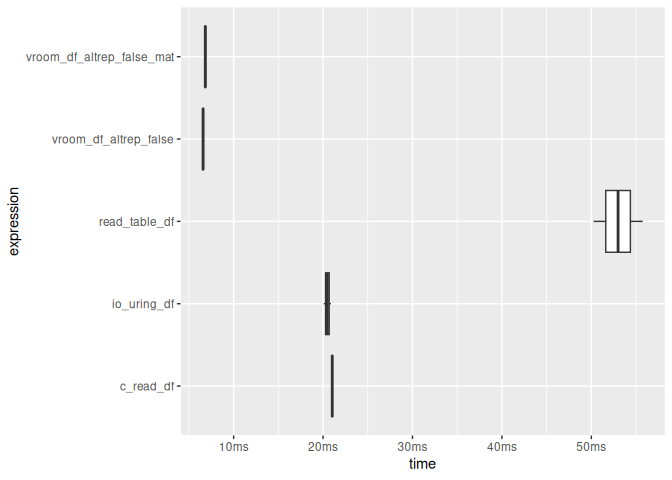
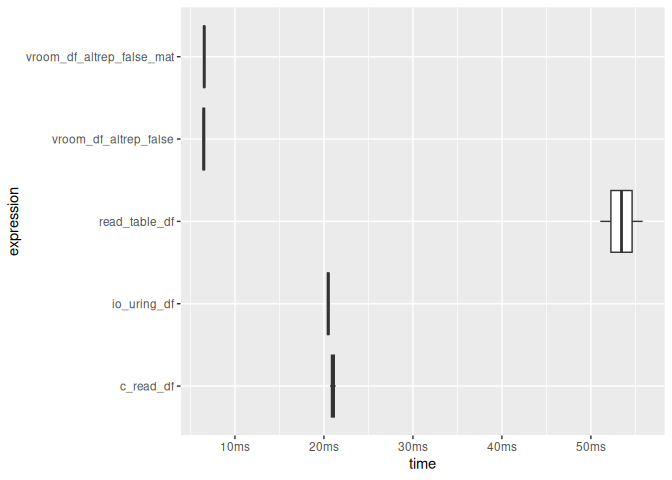
Deploying to gh-pages from @ sounkou-bioinfo/Rtinycc@7c0fed4f866862ffa2b5eaefe57964bf71e3ed3d 🚀

diff --git a/index.html b/index.html
@@ -169,7 +169,7 @@
 <span><span class="fu"><a href="reference/tcc_read_bytes.html">tcc_read_bytes</a></span><span class="op">(</span><span class="va">ptr</span>, <span class="fl">5</span><span class="op">)</span></span>
 <span><span class="co">#&gt; [1] 68 65 6c 6c 6f</span></span>
 <span><span class="fu"><a href="reference/tcc_ptr_addr.html">tcc_ptr_addr</a></span><span class="op">(</span><span class="va">ptr</span>, hex <span class="op">=</span> <span class="cn">TRUE</span><span class="op">)</span></span>
-<span><span class="co">#&gt; [1] "0x60dfb746cb40"</span></span>
+<span><span class="co">#&gt; [1] "0x5b307d43dc30"</span></span>
 <span><span class="fu"><a href="reference/tcc_ptr_is_null.html">tcc_ptr_is_null</a></span><span class="op">(</span><span class="va">ptr</span><span class="op">)</span></span>
 <span><span class="co">#&gt; [1] FALSE</span></span>
 <span><span class="fu"><a href="reference/tcc_free.html">tcc_free</a></span><span class="op">(</span><span class="va">ptr</span><span class="op">)</span></span>
@@ -190,11 +190,11 @@
 <code class="sourceCode R"><span><span class="va">ptr_ref</span> <span class="op">&lt;-</span> <span class="fu"><a href="reference/tcc_malloc.html">tcc_malloc</a></span><span class="op">(</span><span class="va">.Machine</span><span class="op">$</span><span class="va">sizeof.pointer</span> <span class="op"><a href="https://rdrr.io/r/base/Control.html" class="external-link">%||%</a></span> <span class="fl">8L</span><span class="op">)</span></span>
 <span><span class="va">target</span> <span class="op">&lt;-</span> <span class="fu"><a href="reference/tcc_malloc.html">tcc_malloc</a></span><span class="op">(</span><span class="fl">8</span><span class="op">)</span></span>
 <span><span class="fu"><a href="reference/tcc_ptr_set.html">tcc_ptr_set</a></span><span class="op">(</span><span class="va">ptr_ref</span>, <span class="va">target</span><span class="op">)</span></span>
-<span><span class="co">#&gt; &lt;pointer: 0x60dfb9445f10&gt;</span></span>
+<span><span class="co">#&gt; &lt;pointer: 0x5b307d335050&gt;</span></span>
 <span><span class="fu"><a href="reference/tcc_data_ptr.html">tcc_data_ptr</a></span><span class="op">(</span><span class="va">ptr_ref</span><span class="op">)</span></span>
-<span><span class="co">#&gt; &lt;pointer: 0x60dfb6bd4080&gt;</span></span>
+<span><span class="co">#&gt; &lt;pointer: 0x5b307cc3ef00&gt;</span></span>
 <span><span class="fu"><a href="reference/tcc_ptr_set.html">tcc_ptr_set</a></span><span class="op">(</span><span class="va">ptr_ref</span>, <span class="fu"><a href="reference/tcc_null_ptr.html">tcc_null_ptr</a></span><span class="op">(</span><span class="op">)</span><span class="op">)</span></span>
-<span><span class="co">#&gt; &lt;pointer: 0x60dfb9445f10&gt;</span></span>
+<span><span class="co">#&gt; &lt;pointer: 0x5b307d335050&gt;</span></span>
 <span><span class="fu"><a href="reference/tcc_free.html">tcc_free</a></span><span class="op">(</span><span class="va">target</span><span class="op">)</span></span>
 <span><span class="co">#&gt; NULL</span></span>
 <span><span class="fu"><a href="reference/tcc_free.html">tcc_free</a></span><span class="op">(</span><span class="va">ptr_ref</span><span class="op">)</span></span>
@@ -388,7 +388,7 @@
 <span></span>
 <span><span class="va">x</span> <span class="op">&lt;-</span> <span class="fu"><a href="https://rdrr.io/r/base/integer.html" class="external-link">as.integer</a></span><span class="op">(</span><span class="fl">1</span><span class="op">:</span><span class="fl">100</span><span class="op">)</span> <span class="co"># to avoid ALTREP</span></span>
 <span><span class="fu"><a href="https://rdrr.io/r/base/Internal.html" class="external-link">.Internal</a></span><span class="op">(</span><span class="fu">inspect</span><span class="op">(</span><span class="va">x</span><span class="op">)</span><span class="op">)</span></span>
-<span><span class="co">#&gt; @60dfba6f9da8 13 INTSXP g0c0 [REF(65535)]  1 : 100 (compact)</span></span>
+<span><span class="co">#&gt; @5b307e5d8198 13 INTSXP g0c0 [REF(65535)]  1 : 100 (compact)</span></span>
 <span><span class="va">ffi</span><span class="op">$</span><span class="fu">sum_array</span><span class="op">(</span><span class="va">x</span>, <span class="fu"><a href="https://rdrr.io/r/base/length.html" class="external-link">length</a></span><span class="op">(</span><span class="va">x</span><span class="op">)</span><span class="op">)</span></span>
 <span><span class="co">#&gt; [1] 5050</span></span>
 <span></span>
@@ -404,7 +404,7 @@
 <span><span class="co">#&gt; [1] 11</span></span>
 <span></span>
 <span><span class="fu"><a href="https://rdrr.io/r/base/Internal.html" class="external-link">.Internal</a></span><span class="op">(</span><span class="fu">inspect</span><span class="op">(</span><span class="va">x</span><span class="op">)</span><span class="op">)</span></span>
-<span><span class="co">#&gt; @60dfba6f9da8 13 INTSXP g0c0 [REF(65535)]  11 : 110 (expanded)</span></span></code></pre></div>
+<span><span class="co">#&gt; @5b307e5d8198 13 INTSXP g0c0 [REF(65535)]  11 : 110 (expanded)</span></span></code></pre></div>
 </div>
 </div>
 <div class="section level2">
@@ -431,15 +431,15 @@
 <span></span>
 <span><span class="va">p1</span> <span class="op">&lt;-</span> <span class="va">ffi</span><span class="op">$</span><span class="fu">struct_point_new</span><span class="op">(</span><span class="op">)</span></span>
 <span><span class="va">ffi</span><span class="op">$</span><span class="fu">struct_point_set_x</span><span class="op">(</span><span class="va">p1</span>, <span class="fl">0.0</span><span class="op">)</span></span>
-<span><span class="co">#&gt; &lt;pointer: 0x60dfb7700480&gt;</span></span>
+<span><span class="co">#&gt; &lt;pointer: 0x5b307dbbd010&gt;</span></span>
 <span><span class="va">ffi</span><span class="op">$</span><span class="fu">struct_point_set_y</span><span class="op">(</span><span class="va">p1</span>, <span class="fl">0.0</span><span class="op">)</span></span>
-<span><span class="co">#&gt; &lt;pointer: 0x60dfb7700480&gt;</span></span>
+<span><span class="co">#&gt; &lt;pointer: 0x5b307dbbd010&gt;</span></span>
 <span></span>
 <span><span class="va">p2</span> <span class="op">&lt;-</span> <span class="va">ffi</span><span class="op">$</span><span class="fu">struct_point_new</span><span class="op">(</span><span class="op">)</span></span>
 <span><span class="va">ffi</span><span class="op">$</span><span class="fu">struct_point_set_x</span><span class="op">(</span><span class="va">p2</span>, <span class="fl">3.0</span><span class="op">)</span></span>
-<span><span class="co">#&gt; &lt;pointer: 0x60dfb8c37de0&gt;</span></span>
+<span><span class="co">#&gt; &lt;pointer: 0x5b307ae7f0c0&gt;</span></span>
 <span><span class="va">ffi</span><span class="op">$</span><span class="fu">struct_point_set_y</span><span class="op">(</span><span class="va">p2</span>, <span class="fl">4.0</span><span class="op">)</span></span>
-<span><span class="co">#&gt; &lt;pointer: 0x60dfb8c37de0&gt;</span></span>
+<span><span class="co">#&gt; &lt;pointer: 0x5b307ae7f0c0&gt;</span></span>
 <span></span>
 <span><span class="va">ffi</span><span class="op">$</span><span class="fu">distance</span><span class="op">(</span><span class="va">p1</span>, <span class="va">p2</span><span class="op">)</span></span>
 <span><span class="co">#&gt; [1] 5</span></span>
@@ -481,9 +481,9 @@
 <span></span>
 <span><span class="va">s</span> <span class="op">&lt;-</span> <span class="va">ffi</span><span class="op">$</span><span class="fu">struct_flags_new</span><span class="op">(</span><span class="op">)</span></span>
 <span><span class="va">ffi</span><span class="op">$</span><span class="fu">struct_flags_set_active</span><span class="op">(</span><span class="va">s</span>, <span class="fl">1L</span><span class="op">)</span></span>
-<span><span class="co">#&gt; &lt;pointer: 0x60dfb97735a0&gt;</span></span>
+<span><span class="co">#&gt; &lt;pointer: 0x5b307b0c7f80&gt;</span></span>
 <span><span class="va">ffi</span><span class="op">$</span><span class="fu">struct_flags_set_level</span><span class="op">(</span><span class="va">s</span>, <span class="fl">9L</span><span class="op">)</span></span>
-<span><span class="co">#&gt; &lt;pointer: 0x60dfb97735a0&gt;</span></span>
+<span><span class="co">#&gt; &lt;pointer: 0x5b307b0c7f80&gt;</span></span>
 <span><span class="va">ffi</span><span class="op">$</span><span class="fu">struct_flags_get_active</span><span class="op">(</span><span class="va">s</span><span class="op">)</span></span>
 <span><span class="co">#&gt; [1] 1</span></span>
 <span><span class="va">ffi</span><span class="op">$</span><span class="fu">struct_flags_get_level</span><span class="op">(</span><span class="va">s</span><span class="op">)</span></span>
@@ -1560,7 +1560,7 @@ Click to show only the embedded C Protothreads / htslib source
 <span>  <span class="fu"><a href="reference/tcc_compile.html">tcc_compile</a></span><span class="op">(</span><span class="op">)</span></span>
 <span></span>
 <span><span class="va">ffi</span><span class="op">$</span><span class="fu">struct_point_new</span><span class="op">(</span><span class="op">)</span></span>
-<span><span class="co">#&gt; &lt;pointer: 0x60dfb6588420&gt;</span></span>
+<span><span class="co">#&gt; &lt;pointer: 0x5b3080f28470&gt;</span></span>
 <span><span class="va">ffi</span><span class="op">$</span><span class="fu">enum_status_OK</span><span class="op">(</span><span class="op">)</span></span>
 <span><span class="co">#&gt; [1] 0</span></span>
 <span><span class="va">ffi</span><span class="op">$</span><span class="fu">global_global_counter_get</span><span class="op">(</span><span class="op">)</span></span>
@@ -1675,11 +1675,11 @@ Click to show only the embedded C Protothreads / htslib source
 <span><span class="co">#&gt; # A tibble: 5 × 13</span></span>
 <span><span class="co">#&gt;   expression     min  median `itr/sec` mem_alloc `gc/sec` n_itr  n_gc total_time</span></span>
 <span><span class="co">#&gt;   &lt;bch:expr&gt; &lt;bch:t&gt; &lt;bch:t&gt;     &lt;dbl&gt; &lt;bch:byt&gt;    &lt;dbl&gt; &lt;int&gt; &lt;dbl&gt;   &lt;bch:tm&gt;</span></span>
-<span><span class="co">#&gt; 1 read_tabl… 50.24ms 50.24ms      19.9    6.33MB     19.9     1     1     50.2ms</span></span>
-<span><span class="co">#&gt; 2 vroom_df_…  6.53ms  6.58ms     152.     1.22MB      0       2     0     13.2ms</span></span>
-<span><span class="co">#&gt; 3 vroom_df_…  6.77ms  6.83ms     146.     2.44MB      0       2     0     13.7ms</span></span>
-<span><span class="co">#&gt; 4 c_read_df  21.02ms 21.03ms      47.6    1.22MB      0       2     0     42.1ms</span></span>
-<span><span class="co">#&gt; 5 io_uring_… 20.08ms 20.48ms      48.8    1.22MB      0       2     0       41ms</span></span>
+<span><span class="co">#&gt; 1 read_tabl… 51.06ms 51.06ms      19.6    6.33MB     19.6     1     1     51.1ms</span></span>
+<span><span class="co">#&gt; 2 vroom_df_…  6.36ms   6.5ms     154.     1.22MB      0       2     0       13ms</span></span>
+<span><span class="co">#&gt; 3 vroom_df_…  6.44ms  6.54ms     153.     2.44MB      0       2     0     13.1ms</span></span>
+<span><span class="co">#&gt; 4 c_read_df  20.69ms 21.01ms      47.6    1.22MB      0       2     0       42ms</span></span>
+<span><span class="co">#&gt; 5 io_uring_… 20.33ms 20.48ms      48.8    1.22MB      0       2     0       41ms</span></span>
 <span><span class="co">#&gt; # ℹ 4 more variables: result &lt;list&gt;, memory &lt;list&gt;, time &lt;list&gt;, gc &lt;list&gt;</span></span></code></pre></div>
 <p><img src="reference/figures/README-io_uring-demo-1.png" alt="" width="100%"></p>
 </div>
@@ -1761,9 +1761,9 @@ Click to show only the embedded C Protothreads / htslib source
 <span></span>
 <span><span class="va">b</span> <span class="op">&lt;-</span> <span class="va">ffi</span><span class="op">$</span><span class="fu">struct_buf_new</span><span class="op">(</span><span class="op">)</span></span>
 <span><span class="va">ffi</span><span class="op">$</span><span class="fu">struct_buf_set_data_elt</span><span class="op">(</span><span class="va">b</span>, <span class="fl">0L</span>, <span class="fl">0xCAL</span><span class="op">)</span></span>
-<span><span class="co">#&gt; &lt;pointer: 0x60dfc0f45350&gt;</span></span>
+<span><span class="co">#&gt; &lt;pointer: 0x5b307db81e00&gt;</span></span>
 <span><span class="va">ffi</span><span class="op">$</span><span class="fu">struct_buf_set_data_elt</span><span class="op">(</span><span class="va">b</span>, <span class="fl">1L</span>, <span class="fl">0xFEL</span><span class="op">)</span></span>
-<span><span class="co">#&gt; &lt;pointer: 0x60dfc0f45350&gt;</span></span>
+<span><span class="co">#&gt; &lt;pointer: 0x5b307db81e00&gt;</span></span>
 <span><span class="va">ffi</span><span class="op">$</span><span class="fu">struct_buf_get_data_elt</span><span class="op">(</span><span class="va">b</span>, <span class="fl">0L</span><span class="op">)</span></span>
 <span><span class="co">#&gt; [1] 202</span></span>
 <span><span class="va">ffi</span><span class="op">$</span><span class="fu">struct_buf_get_data_elt</span><span class="op">(</span><span class="va">b</span>, <span class="fl">1L</span><span class="op">)</span></span>

diff --git a/articles/compilation-and-call-overhead.html b/articles/compilation-and-call-overhead.html
@@ -450,8 +450,8 @@ below are skipped.</p>
 <span><span class="va">compile_times</span><span class="op">$</span><span class="va">milliseconds</span> <span class="op">&lt;-</span> <span class="fu"><a href="https://rdrr.io/r/base/Round.html" class="external-link">round</a></span><span class="op">(</span><span class="va">compile_times</span><span class="op">$</span><span class="va">seconds</span> <span class="op">*</span> <span class="fl">1000</span>, <span class="fl">1</span><span class="op">)</span></span>
 <span><span class="va">compile_times</span></span>
 <span><span class="co">#&gt;   implementation seconds milliseconds</span></span>
-<span><span class="co">#&gt; 1        Rtinycc   0.022           22</span></span>
-<span><span class="co">#&gt; 2         callme   0.275          275</span></span></code></pre></div>
+<span><span class="co">#&gt; 1        Rtinycc   0.016           16</span></span>
+<span><span class="co">#&gt; 2         callme   0.202          202</span></span></code></pre></div>
 <p>The expected pattern is:</p>
 <ul>
 <li>
@@ -602,8 +602,8 @@ point.</p>
 <span><span class="co">#&gt; <span style="color: #949494;"># A tibble: 2 × 6</span></span></span>
 <span><span class="co">#&gt;   expression      min   median `itr/sec` mem_alloc `gc/sec`</span></span>
 <span><span class="co">#&gt;   <span style="color: #949494; font-style: italic;">&lt;bch:expr&gt;</span> <span style="color: #949494; font-style: italic;">&lt;bch:tm&gt;</span> <span style="color: #949494; font-style: italic;">&lt;bch:tm&gt;</span>     <span style="color: #949494; font-style: italic;">&lt;dbl&gt;</span> <span style="color: #949494; font-style: italic;">&lt;bch:byt&gt;</span>    <span style="color: #949494; font-style: italic;">&lt;dbl&gt;</span></span></span>
-<span><span class="co">#&gt; <span style="color: #BCBCBC;">1</span> Rtinycc       1.1ms   1.14ms      880.    21.9KB        0</span></span>
-<span><span class="co">#&gt; <span style="color: #BCBCBC;">2</span> callme        396µs 411.27µs     <span style="text-decoration: underline;">2</span>408.        0B        0</span></span></code></pre></div>
+<span><span class="co">#&gt; <span style="color: #BCBCBC;">1</span> Rtinycc       858µs    882µs     <span style="text-decoration: underline;">1</span>134.    21.9KB        0</span></span>
+<span><span class="co">#&gt; <span style="color: #BCBCBC;">2</span> callme        320µs    328µs     <span style="text-decoration: underline;">3</span>032.        0B        0</span></span></code></pre></div>
 <p>Interpretation:</p>
 <ul>
 <li>the <code>callme</code> path is close to the cost of a conventional
@@ -645,8 +645,8 @@ result.</p>
 <span><span class="co">#&gt; <span style="color: #949494;"># A tibble: 2 × 6</span></span></span>
 <span><span class="co">#&gt;   expression      min   median `itr/sec` mem_alloc `gc/sec`</span></span>
 <span><span class="co">#&gt;   <span style="color: #949494; font-style: italic;">&lt;bch:expr&gt;</span> <span style="color: #949494; font-style: italic;">&lt;bch:tm&gt;</span> <span style="color: #949494; font-style: italic;">&lt;bch:tm&gt;</span>     <span style="color: #949494; font-style: italic;">&lt;dbl&gt;</span> <span style="color: #949494; font-style: italic;">&lt;bch:byt&gt;</span>    <span style="color: #949494; font-style: italic;">&lt;dbl&gt;</span></span></span>
-<span><span class="co">#&gt; <span style="color: #BCBCBC;">1</span> Rtinycc      2.71ms   4.34ms      245.    3.15MB     12.2</span></span>
-<span><span class="co">#&gt; <span style="color: #BCBCBC;">2</span> callme          2ms   2.03ms      441.    3.13MB     22.0</span></span></code></pre></div>
+<span><span class="co">#&gt; <span style="color: #BCBCBC;">1</span> Rtinycc      2.12ms   3.36ms      318.    3.15MB     15.9</span></span>
+<span><span class="co">#&gt; <span style="color: #BCBCBC;">2</span> callme       1.55ms   1.58ms      570.    3.13MB     28.5</span></span></code></pre></div>
 <p>Interpretation:</p>
 <ul>
 <li>both sides now write into ordinary R numeric storage</li>
@@ -696,14 +696,14 @@ into a fresh R vector</li>
 <span><span class="co">#&gt; <span style="color: #949494;"># A tibble: 2 × 6</span></span></span>
 <span><span class="co">#&gt;   expression      min   median `itr/sec` mem_alloc `gc/sec`</span></span>
 <span><span class="co">#&gt;   <span style="color: #949494; font-style: italic;">&lt;bch:expr&gt;</span> <span style="color: #949494; font-style: italic;">&lt;bch:tm&gt;</span> <span style="color: #949494; font-style: italic;">&lt;bch:tm&gt;</span>     <span style="color: #949494; font-style: italic;">&lt;dbl&gt;</span> <span style="color: #949494; font-style: italic;">&lt;bch:byt&gt;</span>    <span style="color: #949494; font-style: italic;">&lt;dbl&gt;</span></span></span>
-<span><span class="co">#&gt; <span style="color: #BCBCBC;">1</span> Rtinycc      1.74ms   1.82ms      508.    15.4KB     25.4</span></span>
-<span><span class="co">#&gt; <span style="color: #BCBCBC;">2</span> callme     943.63µs 973.47µs     <span style="text-decoration: underline;">1</span>025.        0B      0</span></span>
+<span><span class="co">#&gt; <span style="color: #BCBCBC;">1</span> Rtinycc      1.32ms    1.4ms      668.    15.4KB     33.4</span></span>
+<span><span class="co">#&gt; <span style="color: #BCBCBC;">2</span> callme     755.08µs  774.9µs     <span style="text-decoration: underline;">1</span>285.        0B      0</span></span>
 <span><span class="va">rand_results</span><span class="op">$</span><span class="va">rand_bench_n4096</span></span>
 <span><span class="co">#&gt; <span style="color: #949494;"># A tibble: 2 × 6</span></span></span>
 <span><span class="co">#&gt;   expression      min   median `itr/sec` mem_alloc `gc/sec`</span></span>
 <span><span class="co">#&gt;   <span style="color: #949494; font-style: italic;">&lt;bch:expr&gt;</span> <span style="color: #949494; font-style: italic;">&lt;bch:tm&gt;</span> <span style="color: #949494; font-style: italic;">&lt;bch:tm&gt;</span>     <span style="color: #949494; font-style: italic;">&lt;dbl&gt;</span> <span style="color: #949494; font-style: italic;">&lt;bch:byt&gt;</span>    <span style="color: #949494; font-style: italic;">&lt;dbl&gt;</span></span></span>
-<span><span class="co">#&gt; <span style="color: #BCBCBC;">1</span> Rtinycc      2.62ms   4.14ms      239.    3.13MB     11.9</span></span>
-<span><span class="co">#&gt; <span style="color: #BCBCBC;">2</span> callme       1.86ms   3.35ms      293.    3.13MB     14.6</span></span></code></pre></div>
+<span><span class="co">#&gt; <span style="color: #BCBCBC;">1</span> Rtinycc      2.04ms   3.35ms      298.    3.13MB     14.9</span></span>
+<span><span class="co">#&gt; <span style="color: #BCBCBC;">2</span> callme       1.47ms    2.6ms      375.    3.13MB     18.7</span></span></code></pre></div>
 <p>The usual pattern is:</p>
 <ul>
 <li>for <code>fill_rand()</code>, the comparison is much closer to

diff --git a/articles/ffi-helpers.html b/articles/ffi-helpers.html
@@ -143,14 +143,14 @@ helpers for that pattern.</p>
 <span><span class="va">target</span> <span class="op">&lt;-</span> <span class="fu"><a href="../reference/tcc_malloc.html">tcc_malloc</a></span><span class="op">(</span><span class="fl">4</span><span class="op">)</span></span>
 <span></span>
 <span><span class="fu"><a href="../reference/tcc_ptr_set.html">tcc_ptr_set</a></span><span class="op">(</span><span class="va">ptr_ref</span>, <span class="va">target</span><span class="op">)</span></span>
-<span><span class="co">#&gt; &lt;pointer: 0x55642c286440&gt;</span></span>
+<span><span class="co">#&gt; &lt;pointer: 0x561991c86f90&gt;</span></span>
 <span><span class="fu"><a href="../reference/tcc_ptr_addr.html">tcc_ptr_addr</a></span><span class="op">(</span><span class="fu"><a href="../reference/tcc_data_ptr.html">tcc_data_ptr</a></span><span class="op">(</span><span class="va">ptr_ref</span><span class="op">)</span><span class="op">)</span></span>
-<span><span class="co">#&gt; [1] "93888768111840"</span></span>
+<span><span class="co">#&gt; [1] "94667841806016"</span></span>
 <span><span class="fu"><a href="../reference/tcc_ptr_addr.html">tcc_ptr_addr</a></span><span class="op">(</span><span class="va">target</span><span class="op">)</span></span>
-<span><span class="co">#&gt; [1] "93888768111840"</span></span>
+<span><span class="co">#&gt; [1] "94667841806016"</span></span>
 <span></span>
 <span><span class="fu"><a href="../reference/tcc_ptr_set.html">tcc_ptr_set</a></span><span class="op">(</span><span class="va">ptr_ref</span>, <span class="fu"><a href="../reference/tcc_null_ptr.html">tcc_null_ptr</a></span><span class="op">(</span><span class="op">)</span><span class="op">)</span></span>
-<span><span class="co">#&gt; &lt;pointer: 0x55642c286440&gt;</span></span>
+<span><span class="co">#&gt; &lt;pointer: 0x561991c86f90&gt;</span></span>
 <span><span class="fu"><a href="../reference/tcc_ptr_is_null.html">tcc_ptr_is_null</a></span><span class="op">(</span><span class="fu"><a href="../reference/tcc_data_ptr.html">tcc_data_ptr</a></span><span class="op">(</span><span class="va">ptr_ref</span><span class="op">)</span><span class="op">)</span></span>
 <span><span class="co">#&gt; [1] TRUE</span></span>
 <span></span>

diff --git a/index.md b/index.md
@@ -183,7 +183,7 @@ tcc_read_cstring(ptr)
 tcc_read_bytes(ptr, 5)
 #> [1] 68 65 6c 6c 6f
 tcc_ptr_addr(ptr, hex = TRUE)
-#> [1] "0x60dfb746cb40"
+#> [1] "0x5b307d43dc30"
 tcc_ptr_is_null(ptr)
 #> [1] FALSE
 tcc_free(ptr)
@@ -216,11 +216,11 @@ through output parameters.
 ptr_ref <- tcc_malloc(.Machine$sizeof.pointer %||% 8L)
 target <- tcc_malloc(8)
 tcc_ptr_set(ptr_ref, target)
-#> <pointer: 0x60dfb9445f10>
+#> <pointer: 0x5b307d335050>
 tcc_data_ptr(ptr_ref)
-#> <pointer: 0x60dfb6bd4080>
+#> <pointer: 0x5b307cc3ef00>
 tcc_ptr_set(ptr_ref, tcc_null_ptr())
-#> <pointer: 0x60dfb9445f10>
+#> <pointer: 0x5b307d335050>
 tcc_free(target)
 #> NULL
 tcc_free(ptr_ref)
@@ -457,7 +457,7 @@ ffi <- tcc_ffi() |>
 
 x <- as.integer(1:100) # to avoid ALTREP
 .Internal(inspect(x))
-#> @60dfba6f9da8 13 INTSXP g0c0 [REF(65535)]  1 : 100 (compact)
+#> @5b307e5d8198 13 INTSXP g0c0 [REF(65535)]  1 : 100 (compact)
 ffi$sum_array(x, length(x))
 #> [1] 5050
 
@@ -473,7 +473,7 @@ y[1]
 #> [1] 11
 
 .Internal(inspect(x))
-#> @60dfba6f9da8 13 INTSXP g0c0 [REF(65535)]  11 : 110 (expanded)
+#> @5b307e5d8198 13 INTSXP g0c0 [REF(65535)]  11 : 110 (expanded)
 ```
 
 ## Advanced FFI features
@@ -502,15 +502,15 @@ ffi <- tcc_ffi() |>
 
 p1 <- ffi$struct_point_new()
 ffi$struct_point_set_x(p1, 0.0)
-#> <pointer: 0x60dfb7700480>
+#> <pointer: 0x5b307dbbd010>
 ffi$struct_point_set_y(p1, 0.0)
-#> <pointer: 0x60dfb7700480>
+#> <pointer: 0x5b307dbbd010>
 
 p2 <- ffi$struct_point_new()
 ffi$struct_point_set_x(p2, 3.0)
-#> <pointer: 0x60dfb8c37de0>
+#> <pointer: 0x5b307ae7f0c0>
 ffi$struct_point_set_y(p2, 4.0)
-#> <pointer: 0x60dfb8c37de0>
+#> <pointer: 0x5b307ae7f0c0>
 
 ffi$distance(p1, p2)
 #> [1] 5
@@ -557,9 +557,9 @@ ffi <- tcc_ffi() |>
 
 s <- ffi$struct_flags_new()
 ffi$struct_flags_set_active(s, 1L)
-#> <pointer: 0x60dfb97735a0>
+#> <pointer: 0x5b307b0c7f80>
 ffi$struct_flags_set_level(s, 9L)
-#> <pointer: 0x60dfb97735a0>
+#> <pointer: 0x5b307b0c7f80>
 ffi$struct_flags_get_active(s)
 #> [1] 1
 ffi$struct_flags_get_level(s)
@@ -1724,7 +1724,7 @@ ffi <- tcc_ffi() |>
   tcc_compile()
 
 ffi$struct_point_new()
-#> <pointer: 0x60dfb6588420>
+#> <pointer: 0x5b3080f28470>
 ffi$enum_status_OK()
 #> [1] 0
 ffi$global_global_counter_get()
@@ -1842,11 +1842,11 @@ if (Sys.info()[["sysname"]] == "Linux") {
 #> # A tibble: 5 × 13
 #>   expression     min  median `itr/sec` mem_alloc `gc/sec` n_itr  n_gc total_time
 #>   <bch:expr> <bch:t> <bch:t>     <dbl> <bch:byt>    <dbl> <int> <dbl>   <bch:tm>
-#> 1 read_tabl… 50.24ms 50.24ms      19.9    6.33MB     19.9     1     1     50.2ms
-#> 2 vroom_df_…  6.53ms  6.58ms     152.     1.22MB      0       2     0     13.2ms
-#> 3 vroom_df_…  6.77ms  6.83ms     146.     2.44MB      0       2     0     13.7ms
-#> 4 c_read_df  21.02ms 21.03ms      47.6    1.22MB      0       2     0     42.1ms
-#> 5 io_uring_… 20.08ms 20.48ms      48.8    1.22MB      0       2     0       41ms
+#> 1 read_tabl… 51.06ms 51.06ms      19.6    6.33MB     19.6     1     1     51.1ms
+#> 2 vroom_df_…  6.36ms   6.5ms     154.     1.22MB      0       2     0       13ms
+#> 3 vroom_df_…  6.44ms  6.54ms     153.     2.44MB      0       2     0     13.1ms
+#> 4 c_read_df  20.69ms 21.01ms      47.6    1.22MB      0       2     0       42ms
+#> 5 io_uring_… 20.33ms 20.48ms      48.8    1.22MB      0       2     0       41ms
 #> # ℹ 4 more variables: result <list>, memory <list>, time <list>, gc <list>
 ```
 
@@ -1955,9 +1955,9 @@ ffi <- tcc_ffi() |>
 
 b <- ffi$struct_buf_new()
 ffi$struct_buf_set_data_elt(b, 0L, 0xCAL)
-#> <pointer: 0x60dfc0f45350>
+#> <pointer: 0x5b307db81e00>
 ffi$struct_buf_set_data_elt(b, 1L, 0xFEL)
-#> <pointer: 0x60dfc0f45350>
+#> <pointer: 0x5b307db81e00>
 ffi$struct_buf_get_data_elt(b, 0L)
 #> [1] 202
 ffi$struct_buf_get_data_elt(b, 1L)

diff --git a/articles/compilation-and-call-overhead.md b/articles/compilation-and-call-overhead.md
@@ -389,8 +389,8 @@ compile_times <- data.frame(
 compile_times$milliseconds <- round(compile_times$seconds * 1000, 1)
 compile_times
 #>   implementation seconds milliseconds
-#> 1        Rtinycc   0.022           22
-#> 2         callme   0.275          275
+#> 1        Rtinycc   0.016           16
+#> 2         callme   0.202          202
 ```
 
 The expected pattern is:
@@ -541,8 +541,8 @@ noop_bench
 #> # A tibble: 2 × 6
 #>   expression      min   median `itr/sec` mem_alloc `gc/sec`
 #>   <bch:expr> <bch:tm> <bch:tm>     <dbl> <bch:byt>    <dbl>
-#> 1 Rtinycc       1.1ms   1.14ms      880.    21.9KB        0
-#> 2 callme        396µs 411.27µs     2408.        0B        0
+#> 1 Rtinycc       858µs    882µs     1134.    21.9KB        0
+#> 2 callme        320µs    328µs     3032.        0B        0
 ```
 
 Interpretation:
@@ -581,8 +581,8 @@ fill_bench_n4096
 #> # A tibble: 2 × 6
 #>   expression      min   median `itr/sec` mem_alloc `gc/sec`
 #>   <bch:expr> <bch:tm> <bch:tm>     <dbl> <bch:byt>    <dbl>
-#> 1 Rtinycc      2.71ms   4.34ms      245.    3.15MB     12.2
-#> 2 callme          2ms   2.03ms      441.    3.13MB     22.0
+#> 1 Rtinycc      2.12ms   3.36ms      318.    3.15MB     15.9
+#> 2 callme       1.55ms   1.58ms      570.    3.13MB     28.5
 ```
 
 Interpretation:
@@ -631,14 +631,14 @@ rand_results$rand_bench_n1
 #> # A tibble: 2 × 6
 #>   expression      min   median `itr/sec` mem_alloc `gc/sec`
 #>   <bch:expr> <bch:tm> <bch:tm>     <dbl> <bch:byt>    <dbl>
-#> 1 Rtinycc      1.74ms   1.82ms      508.    15.4KB     25.4
-#> 2 callme     943.63µs 973.47µs     1025.        0B      0
+#> 1 Rtinycc      1.32ms    1.4ms      668.    15.4KB     33.4
+#> 2 callme     755.08µs  774.9µs     1285.        0B      0
 rand_results$rand_bench_n4096
 #> # A tibble: 2 × 6
 #>   expression      min   median `itr/sec` mem_alloc `gc/sec`
 #>   <bch:expr> <bch:tm> <bch:tm>     <dbl> <bch:byt>    <dbl>
-#> 1 Rtinycc      2.62ms   4.14ms      239.    3.13MB     11.9
-#> 2 callme       1.86ms   3.35ms      293.    3.13MB     14.6
+#> 1 Rtinycc      2.04ms   3.35ms      298.    3.13MB     14.9
+#> 2 callme       1.47ms    2.6ms      375.    3.13MB     18.7
 ```
 
 The usual pattern is:

diff --git a/articles/ffi-helpers.md b/articles/ffi-helpers.md
@@ -82,14 +82,14 @@ ptr_ref <- tcc_malloc(ptr_size)
 target <- tcc_malloc(4)
 
 tcc_ptr_set(ptr_ref, target)
-#> <pointer: 0x55642c286440>
+#> <pointer: 0x561991c86f90>
 tcc_ptr_addr(tcc_data_ptr(ptr_ref))
-#> [1] "93888768111840"
+#> [1] "94667841806016"
 tcc_ptr_addr(target)
-#> [1] "93888768111840"
+#> [1] "94667841806016"
 
 tcc_ptr_set(ptr_ref, tcc_null_ptr())
-#> <pointer: 0x55642c286440>
+#> <pointer: 0x561991c86f90>
 tcc_ptr_is_null(tcc_data_ptr(ptr_ref))
 #> [1] TRUE
 